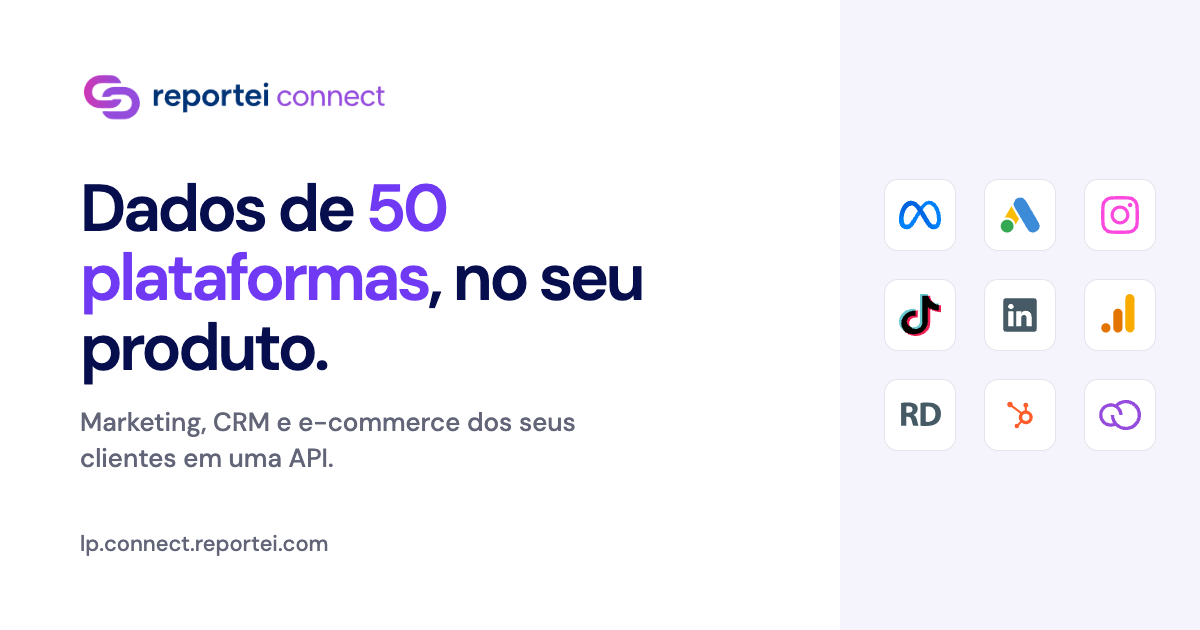
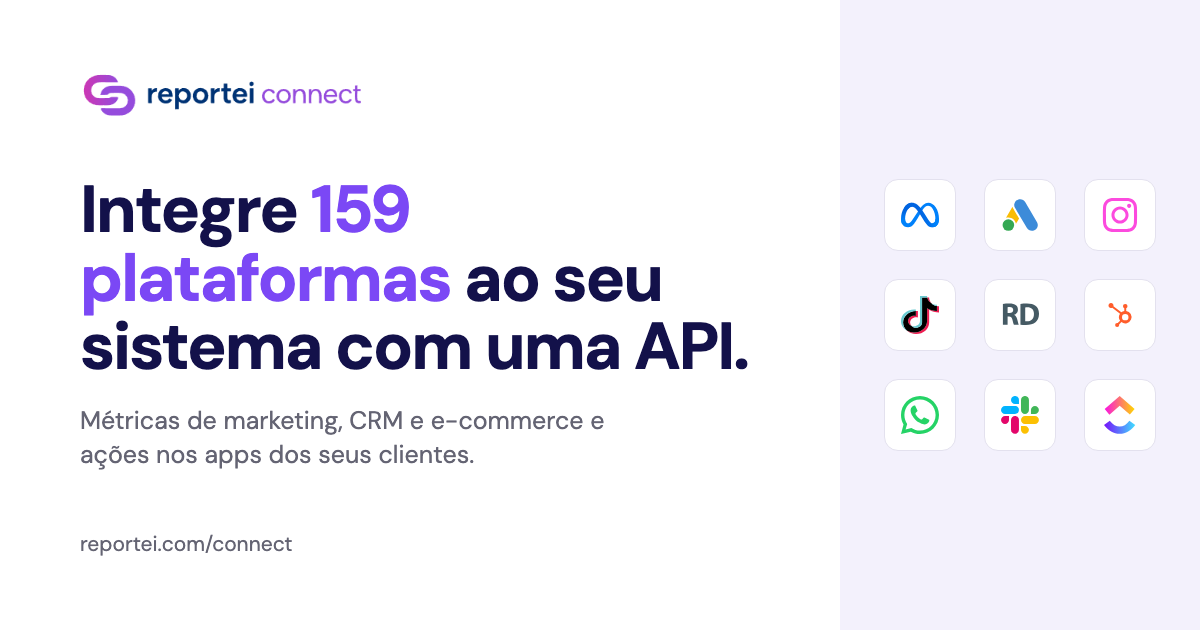
fix(seo): new Open Graph image with 159 platforms and home titles with the count
- public/og.png still said "Dados de 50 plataformas", so X and other link previews showed the old card
- The image URL is now og.png?v=2, so X and other crawlers fetch the new file instead of reusing the cached one
- Home titles in pt, en, es and fr name the action and the count from CATALOG_COUNT, keeping the "API de dados de marketing" keyword

diff --git a/components/root-document.tsx b/components/root-document.tsx
@@ -16,10 +16,10 @@ const dmSans = DM_Sans({ subsets: ["latin"], variable: "--font-dm-sans", display
 // Pages set their own canonical through pageMetadata; the layout only holds what every page shares.
 export function rootMetadata(locale: Locale): Metadata {
   const t = getMessages(locale).meta
-  const image = { url: "https://reportei.com/connect/og.png", width: 1200, height: 630, alt: t.ogImageAlt(CATALOG_COUNT) }
+  const image = { url: "https://reportei.com/connect/og.png?v=2", width: 1200, height: 630, alt: t.ogImageAlt(CATALOG_COUNT) }
   return {
     metadataBase: new URL("https://reportei.com"),
-    title: t.homeTitle,
+    title: t.homeTitle(CATALOG_COUNT),
     description: t.homeDescription(NATIVE_COUNT),
     // Same Reportei mark the Connect app uses, so the tab looks the same on both.
     icons: {

diff --git a/lib/messages/pt.ts b/lib/messages/pt.ts
@@ -8,7 +8,7 @@ const faqs = (items: Faq[]) => items
 // Strings that reach client components must be plain data, so those use {placeholders} filled by `fill`.
 export const pt = {
   meta: {
-    homeTitle: "API de dados de marketing para SaaS | Reportei Connect",
+    homeTitle: (total: number) => `API de dados de marketing: integre ${total} plataformas | Reportei Connect`,
     homeDescription: (n: number) =>
       `API para o seu software consultar Instagram, Meta Ads, Google Ads, RD Station e mais ${n - 4} plataformas de marketing, CRM e e-commerce dos seus clientes.`,
     softwareDescription: (n: number) =>

diff --git a/lib/messages/fr.ts b/lib/messages/fr.ts
@@ -2,7 +2,7 @@ import type { Messages, Rich } from "@/lib/messages/pt"
 
 export const fr: Messages = {
   meta: {
-    homeTitle: "API de données marketing pour SaaS | Reportei Connect",
+    homeTitle: (total: number) => `API de données marketing : intégrez ${total} plateformes | Reportei Connect`,
     homeDescription: (n) =>
       `Une API pour que votre logiciel interroge Instagram, Meta Ads, Google Ads, RD Station et ${n - 4} autres plateformes marketing, CRM et e-commerce de vos clients.`,
     softwareDescription: (n) =>

diff --git a/lib/seo.ts b/lib/seo.ts
@@ -14,7 +14,7 @@ import {
 export const SITE_URL = "https://reportei.com/connect"
 export const SITE_NAME = "Reportei Connect"
 export const SIGNUP_URL = "https://app.connect.reportei.com/signup"
-const OG_IMAGE_BASE = { url: `${SITE_URL}/og.png`, width: 1200, height: 630 }
+const OG_IMAGE_BASE = { url: `${SITE_URL}/og.png?v=2`, width: 1200, height: 630 }
 export const OG_IMAGE = { ...OG_IMAGE_BASE, alt: "Reportei Connect: métricas e ações nos apps dos seus clientes em uma API" }
 
 export function absoluteUrl(path: string) {

diff --git a/lib/messages/es.ts b/lib/messages/es.ts
@@ -2,7 +2,7 @@ import type { Messages, Rich } from "@/lib/messages/pt"
 
 export const es: Messages = {
   meta: {
-    homeTitle: "API de datos de marketing para SaaS | Reportei Connect",
+    homeTitle: (total: number) => `API de datos de marketing: integra ${total} plataformas | Reportei Connect`,
     homeDescription: (n) =>
       `API para que tu software consulte Instagram, Meta Ads, Google Ads, RD Station y ${n - 4} plataformas más de marketing, CRM y e-commerce de tus clientes.`,
     softwareDescription: (n) =>

diff --git a/lib/messages/en.ts b/lib/messages/en.ts
@@ -2,7 +2,7 @@ import type { Messages, Rich } from "@/lib/messages/pt"
 
 export const en: Messages = {
   meta: {
-    homeTitle: "Marketing data API for SaaS | Reportei Connect",
+    homeTitle: (total: number) => `Marketing data API: integrate ${total} platforms | Reportei Connect`,
     homeDescription: (n) =>
       `An API for your software to query your customers' Instagram, Meta Ads, Google Ads, RD Station and ${n - 4} more marketing, CRM and e-commerce platforms.`,
     softwareDescription: (n) =>

diff --git a/components/home-page.tsx b/components/home-page.tsx
@@ -23,7 +23,7 @@ import { absoluteUrl, pageMetadata } from "@/lib/seo"
 export function homeMetadata(locale: Locale) {
   const t = getMessages(locale).meta
   return pageMetadata({
-    title: t.homeTitle,
+    title: t.homeTitle(CATALOG_COUNT),
     description: t.homeDescription(NATIVE_COUNT),
     path: pagePath(locale, "home"),
     locale,
